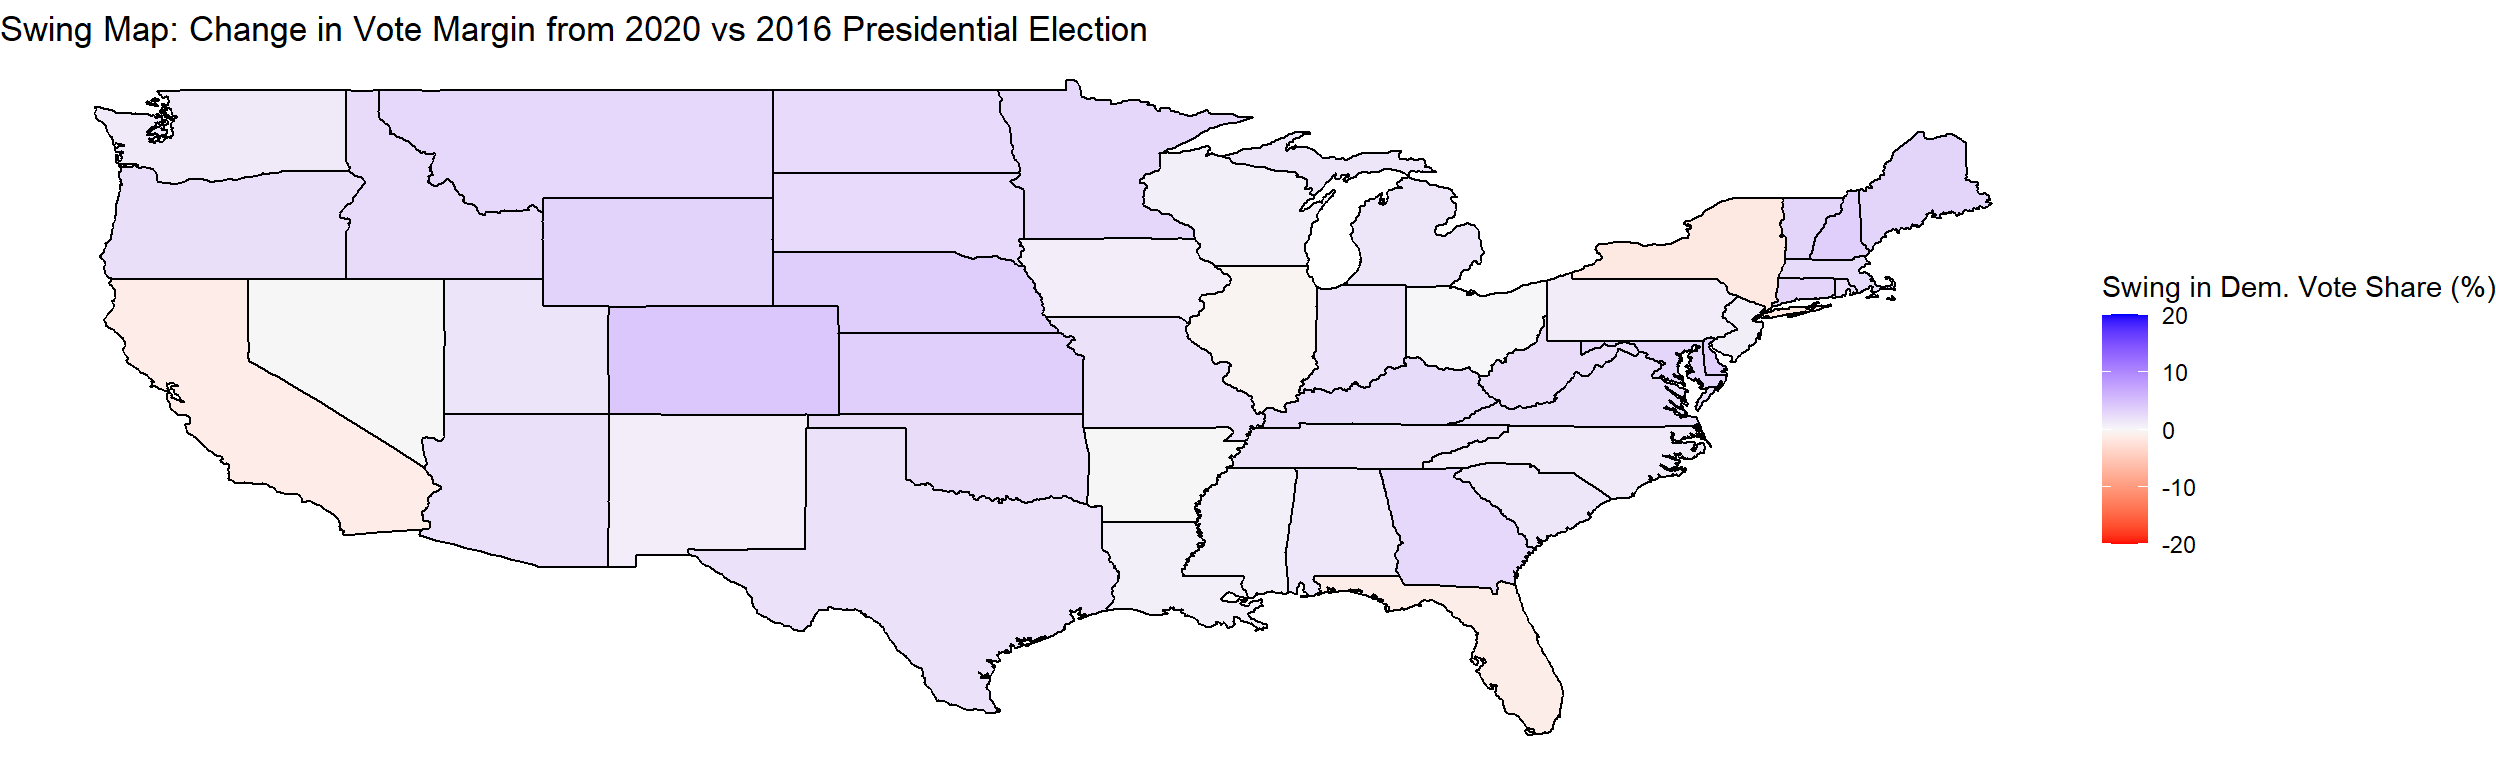
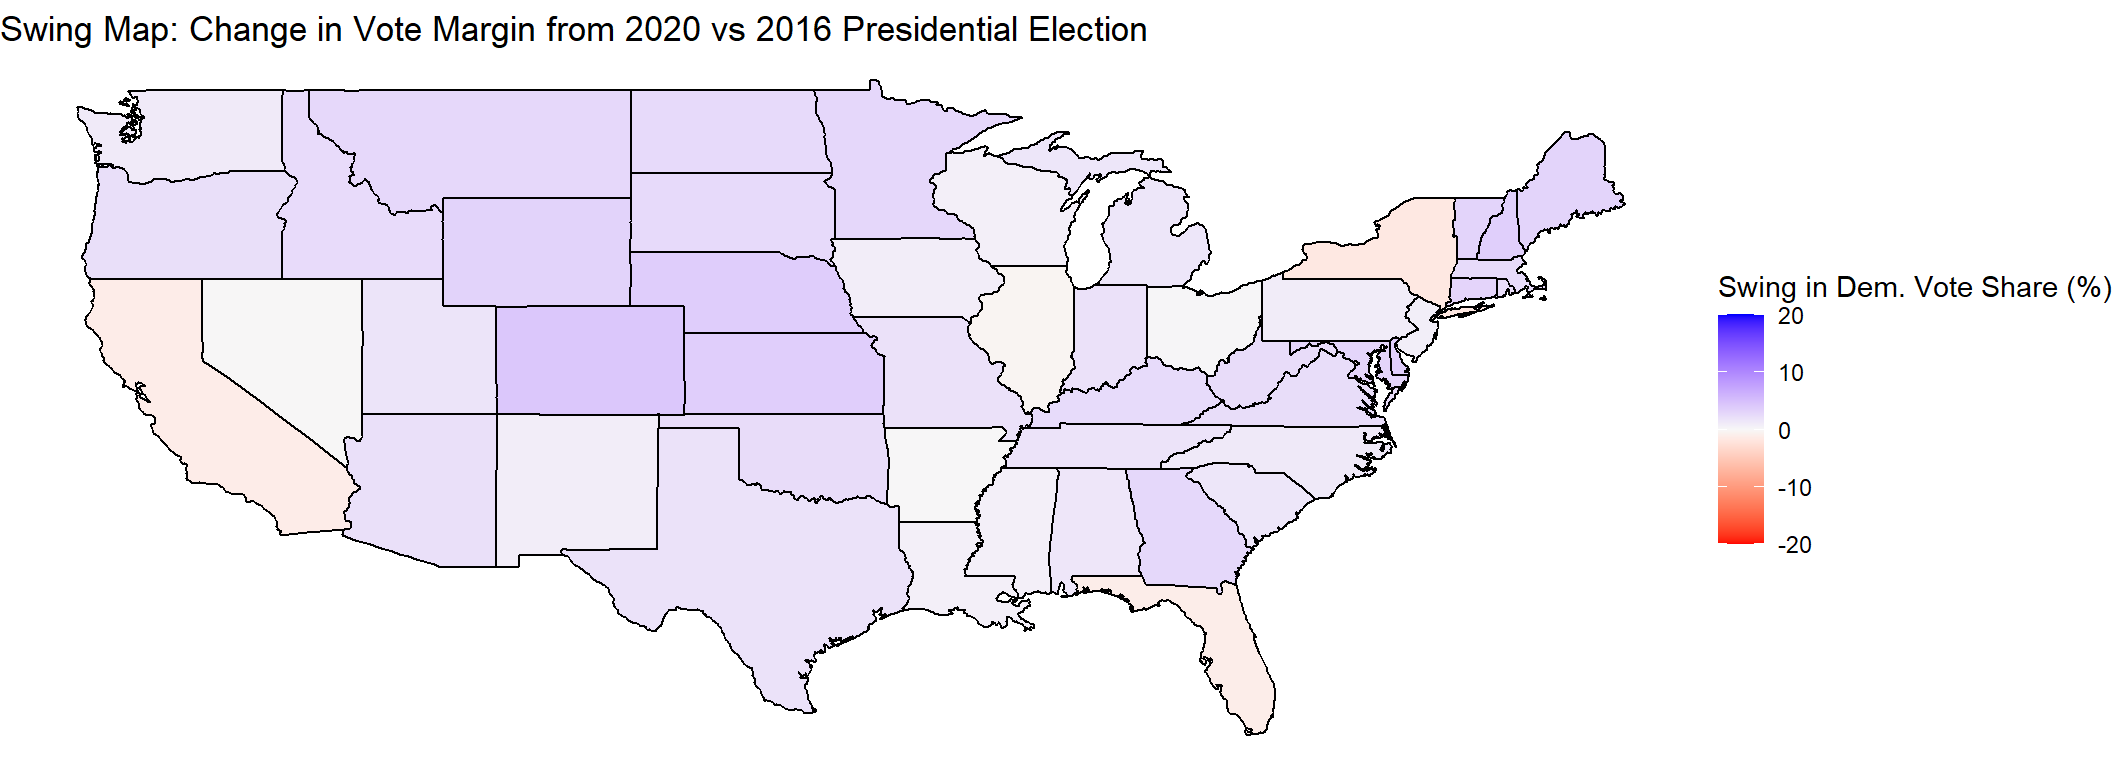
prt 4.

diff --git a/public/post/2024/09/09/post-1/index.html b/public/post/2024/09/09/post-1/index.html
@@ -38,16 +38,16 @@
 <p>This is the first of a series of blog posts in which I will analyze and predict the 2024 Presidential Election. In my first post, I will analyze historical data from past presidential elections to determine how competitive presidential elections are, what states can be seen as reliable for either party, while what states are considered swing states.</p>
 <h2 id="what-states-are-competitive">What states are competitive?</h2>
 <p>To begin, I will examine the vote margins for each state in the Democratic and Republican parties&rsquo; presidential elections from 2000 to 2020. A brief overview shows that even the most partisan states had relatively close margins. Excluding D.C., every state was within 30 percentage points, and most were within 15 points. However, under the U.S. Electoral College system, whether state margins are 80-20 or 52-48, if they consistently vote for the same party, the margin does not affect the overall election outcome. The only states that genuinely impact the result are those with razor-thin margins capable of switching sides, and these states tend to be nearly white on the electoral map below.</p>
-<img src="https://example.org/post/2024/09/09/post-1/index_files/figure-html/unnamed-chunk-10-1.png" width="1248" />
+<img src="https://example.org/post/2024/09/09/post-1/index_files/figure-html/unnamed-chunk-10-1.png" width="1056" />
 <p>Certain swing states in 2000 and subsequent elections have trended towards one party, removing them from contention. Ohio and Iowa now lean Republican, while New Mexico, Oregon, and Minnesota lean Democratic. Texas appears to be inching toward swing state status but remains solidly Republican. Virginia presents an interesting case, having shifted from reliably red to reliably blue during this period.</p>
 <p>Pennsylvania, Wisconsin, Nevada, and Michigan have consistently been swing states throughout this period, including the most recent election. Conversely, Arizona, Georgia, and North Carolina have shifted from being reliably Republican to competitive. Florida is difficult to gauge; while its vote margins suggest swing state status, recent election results resemble those of more consistently red states like Iowa or Texas. Therefore, we&rsquo;ll reserve judgment until further analysis of more recent maps.</p>
 <h2 id="swing-map-1-2016-vs-2020">Swing Map #1: 2016 vs. 2020</h2>
 <p>This map examines the change in vote margins in each state between 2016 and 2020. As expected, most of the map is blue since a Republican won in 2016 but lost in 2020. However, a few noteworthy trends emerge. First, while much of the country shifted towards the Democrats, Florida moved further towards the Republicans. In my opinion, this shift is significant enough to remove Florida&rsquo;s status as a swing state. Florida moved towards a Republican candidate even as Republicans underperformed nationwide.</p>
-<img src="https://example.org/post/2024/09/09/post-1/index_files/figure-html/unnamed-chunk-11-1.png" width="1248" />
+<img src="https://example.org/post/2024/09/09/post-1/index_files/figure-html/unnamed-chunk-11-1.png" width="1056" />
 <p>Another interesting point is that New York and California, two Democratic strongholds, also trended Republican. These two states represent major electoral college strongholds for the Democrats. Many argue that recent trends make it unlikely for Democrats to lose the popular vote but still win the Electoral College. While this is mainly true, if these states continue to trend Republican, it could become possible in future elections.</p>
 <h2 id="swing-map-2-2012-vs-2020">Swing Map #2: 2012 vs. 2020</h2>
 <p>While the map comparing vote margins from 2016 to 2020 is interesting, there isn’t much detailed analysis to draw from it, as most of the country swung in favor of the party shift. A more fascinating comparison comes from looking at the 2012 and 2020 presidential elections, where Democratic candidates won both times. However, it’s important to note that the 2012 election was a more decisive victory for the Democrats. Obama won 126 more electoral votes than Romney, while Biden only won 74 more than Trump.</p>
-<img src="https://example.org/post/2024/09/09/post-1/index_files/figure-html/unnamed-chunk-12-1.png" width="1248" />
+<img src="https://example.org/post/2024/09/09/post-1/index_files/figure-html/unnamed-chunk-12-1.png" width="1056" />
 <p>This map supports earlier analysis. Arizona and Georgia stand out as they have become far more competitive for the Democratic Party, evolving into swing states. Conversely, Ohio, Iowa, and Florida have trended more Republican and are no longer considered swing states. Many traditional swing states in the Midwest and Nevada trended Republican, though this is expected, given that Obama won more significantly than Biden.</p>
 <p>Utah has become significantly more Democratic-leaning, though it remains far from becoming a swing state. Texas has also shifted noticeably toward the Democrats during this period, signaling its potential move toward swing state status. Interestingly, some reliably red states like Kansas and Idaho have trended more Democratic, while others, like North Dakota and West Virginia, have become significantly more Republican. I don&rsquo;t have a strong theory for why some traditionally Republican states shifted in opposite directions beyond basic immigration patterns.</p>
 <h2 id="concluding-thoughts">Concluding Thoughts</h2>

diff --git a/content/post/2024-09-06-post-1/index.md b/content/post/2024-09-06-post-1/index.md
@@ -42,7 +42,7 @@ This is the first of a series of blog posts in which I will analyze and predict 
 To begin, I will examine the vote margins for each state in the Democratic and Republican parties' presidential elections from 2000 to 2020. A brief overview shows that even the most partisan states had relatively close margins. Excluding D.C., every state was within 30 percentage points, and most were within 15 points. However, under the U.S. Electoral College system, whether state margins are 80-20 or 52-48, if they consistently vote for the same party, the margin does not affect the overall election outcome. The only states that genuinely impact the result are those with razor-thin margins capable of switching sides, and these states tend to be nearly white on the electoral map below.
 
 
-<img src="{{< blogdown/postref >}}index_files/figure-html/unnamed-chunk-10-1.png" width="1248" />
+<img src="{{< blogdown/postref >}}index_files/figure-html/unnamed-chunk-10-1.png" width="1056" />
 
 Certain swing states in 2000 and subsequent elections have trended towards one party, removing them from contention. Ohio and Iowa now lean Republican, while New Mexico, Oregon, and Minnesota lean Democratic. Texas appears to be inching toward swing state status but remains solidly Republican. Virginia presents an interesting case, having shifted from reliably red to reliably blue during this period.
 
@@ -52,7 +52,7 @@ Pennsylvania, Wisconsin, Nevada, and Michigan have consistently been swing state
 
 This map examines the change in vote margins in each state between 2016 and 2020. As expected, most of the map is blue since a Republican won in 2016 but lost in 2020. However, a few noteworthy trends emerge. First, while much of the country shifted towards the Democrats, Florida moved further towards the Republicans. In my opinion, this shift is significant enough to remove Florida's status as a swing state. Florida moved towards a Republican candidate even as Republicans underperformed nationwide.
 
-<img src="{{< blogdown/postref >}}index_files/figure-html/unnamed-chunk-11-1.png" width="1248" />
+<img src="{{< blogdown/postref >}}index_files/figure-html/unnamed-chunk-11-1.png" width="1056" />
 
 Another interesting point is that New York and California, two Democratic strongholds, also trended Republican. These two states represent major electoral college strongholds for the Democrats. Many argue that recent trends make it unlikely for Democrats to lose the popular vote but still win the Electoral College. While this is mainly true, if these states continue to trend Republican, it could become possible in future elections.
 
@@ -60,7 +60,7 @@ Another interesting point is that New York and California, two Democratic strong
 
 While the map comparing vote margins from 2016 to 2020 is interesting, there isn’t much detailed analysis to draw from it, as most of the country swung in favor of the party shift. A more fascinating comparison comes from looking at the 2012 and 2020 presidential elections, where Democratic candidates won both times. However, it’s important to note that the 2012 election was a more decisive victory for the Democrats. Obama won 126 more electoral votes than Romney, while Biden only won 74 more than Trump.
 
-<img src="{{< blogdown/postref >}}index_files/figure-html/unnamed-chunk-12-1.png" width="1248" />
+<img src="{{< blogdown/postref >}}index_files/figure-html/unnamed-chunk-12-1.png" width="1056" />
 
 This map supports earlier analysis. Arizona and Georgia stand out as they have become far more competitive for the Democratic Party, evolving into swing states. Conversely, Ohio, Iowa, and Florida have trended more Republican and are no longer considered swing states. Many traditional swing states in the Midwest and Nevada trended Republican, though this is expected, given that Obama won more significantly than Biden.
 
